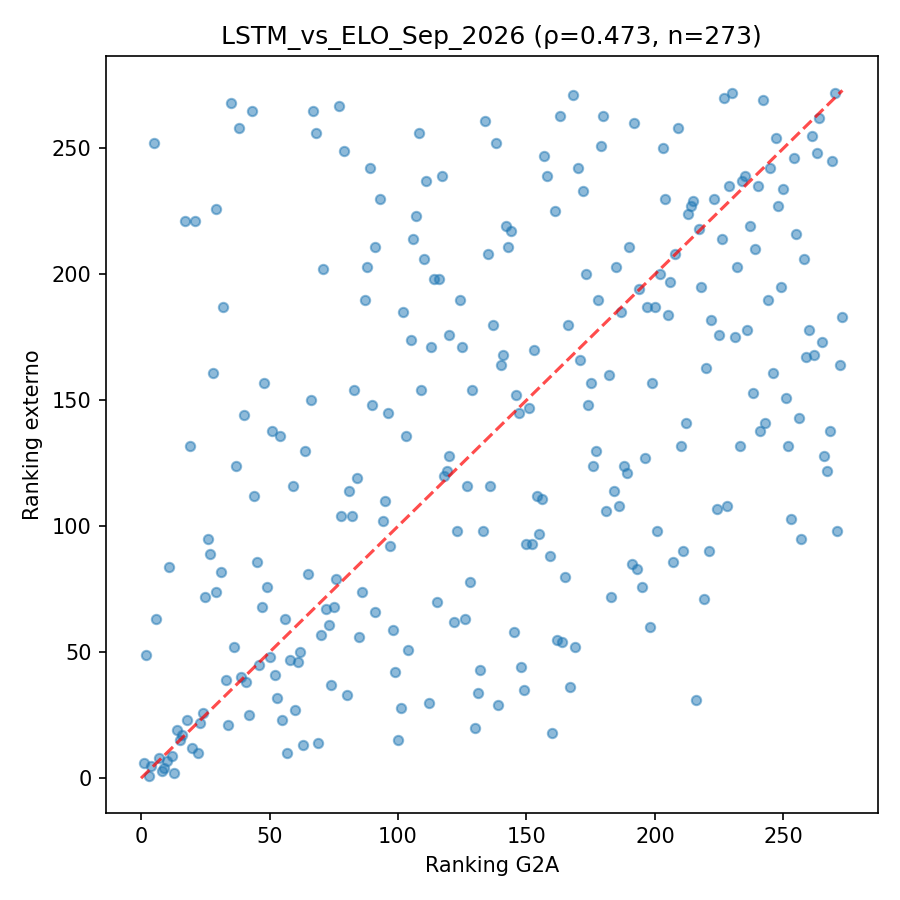
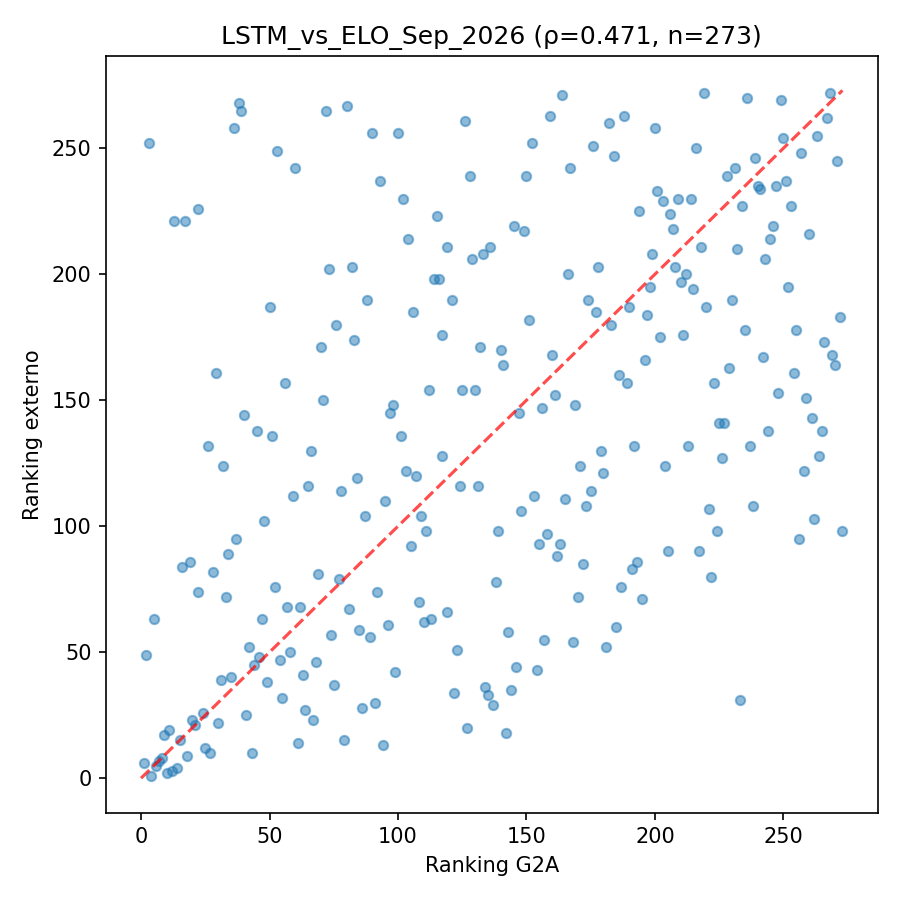
data: Actualizados los 13 artefactos generados en Extra1.ipynb

diff --git a/Data/validaciones_lite.tex b/Data/validaciones_lite.tex
@@ -13,8 +13,9 @@ CONMEBOL 2026 & 77 & 0.643 & 0.470 & 0.600 & 0.600 & 14.0 \\
 LSTM vs UEFA 2026 & 47 & 0.704 & 0.539 & 0.900 & 0.700 & 7.5 \\
 LSTM vs ELO Sep 2026 & 273 & 0.473 & 0.333 & 0.700 & 0.650 & 61.3 \\
 LSTM vs AFC 2026 & 15 & 0.170 & 0.115 & 0.800 & 0.750 & 4.9 \\
-ARIMA Lite & 411 & 0.990 & 0.941 & 0.800 & 0.950 & 9.2 \\
-LSTM Lite & 411 & 0.985 & 0.903 & 0.900 & 0.950 & 14.2 \\
+LSTM vs UEFA 2026 & 47 & 0.681 & 0.521 & 0.900 & 0.700 & 7.8 \\
+LSTM vs ELO Sep 2026 & 273 & 0.471 & 0.334 & 0.600 & 0.600 & 61.7 \\
+LSTM vs AFC 2026 & 15 & 0.191 & 0.134 & 0.800 & 0.750 & 4.7 \\
 \bottomrule
 \end{tabular}
 \end{table}
